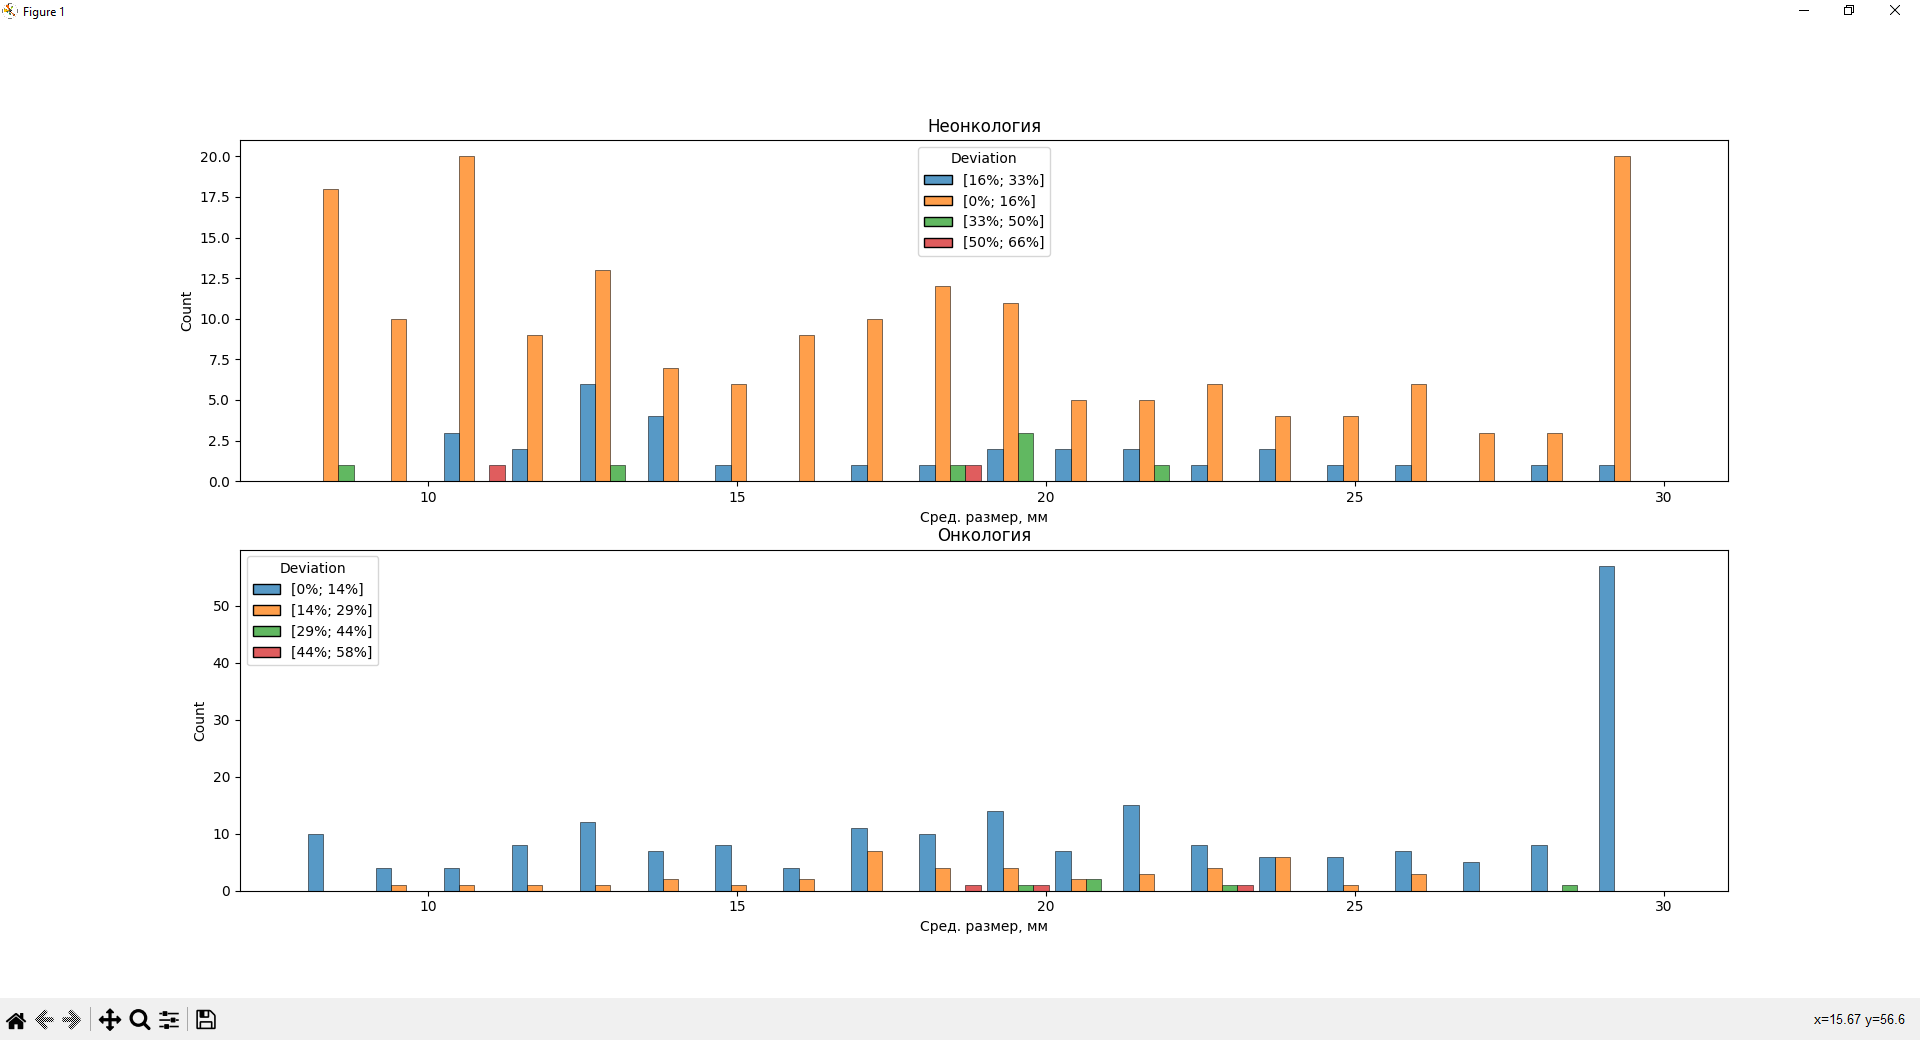
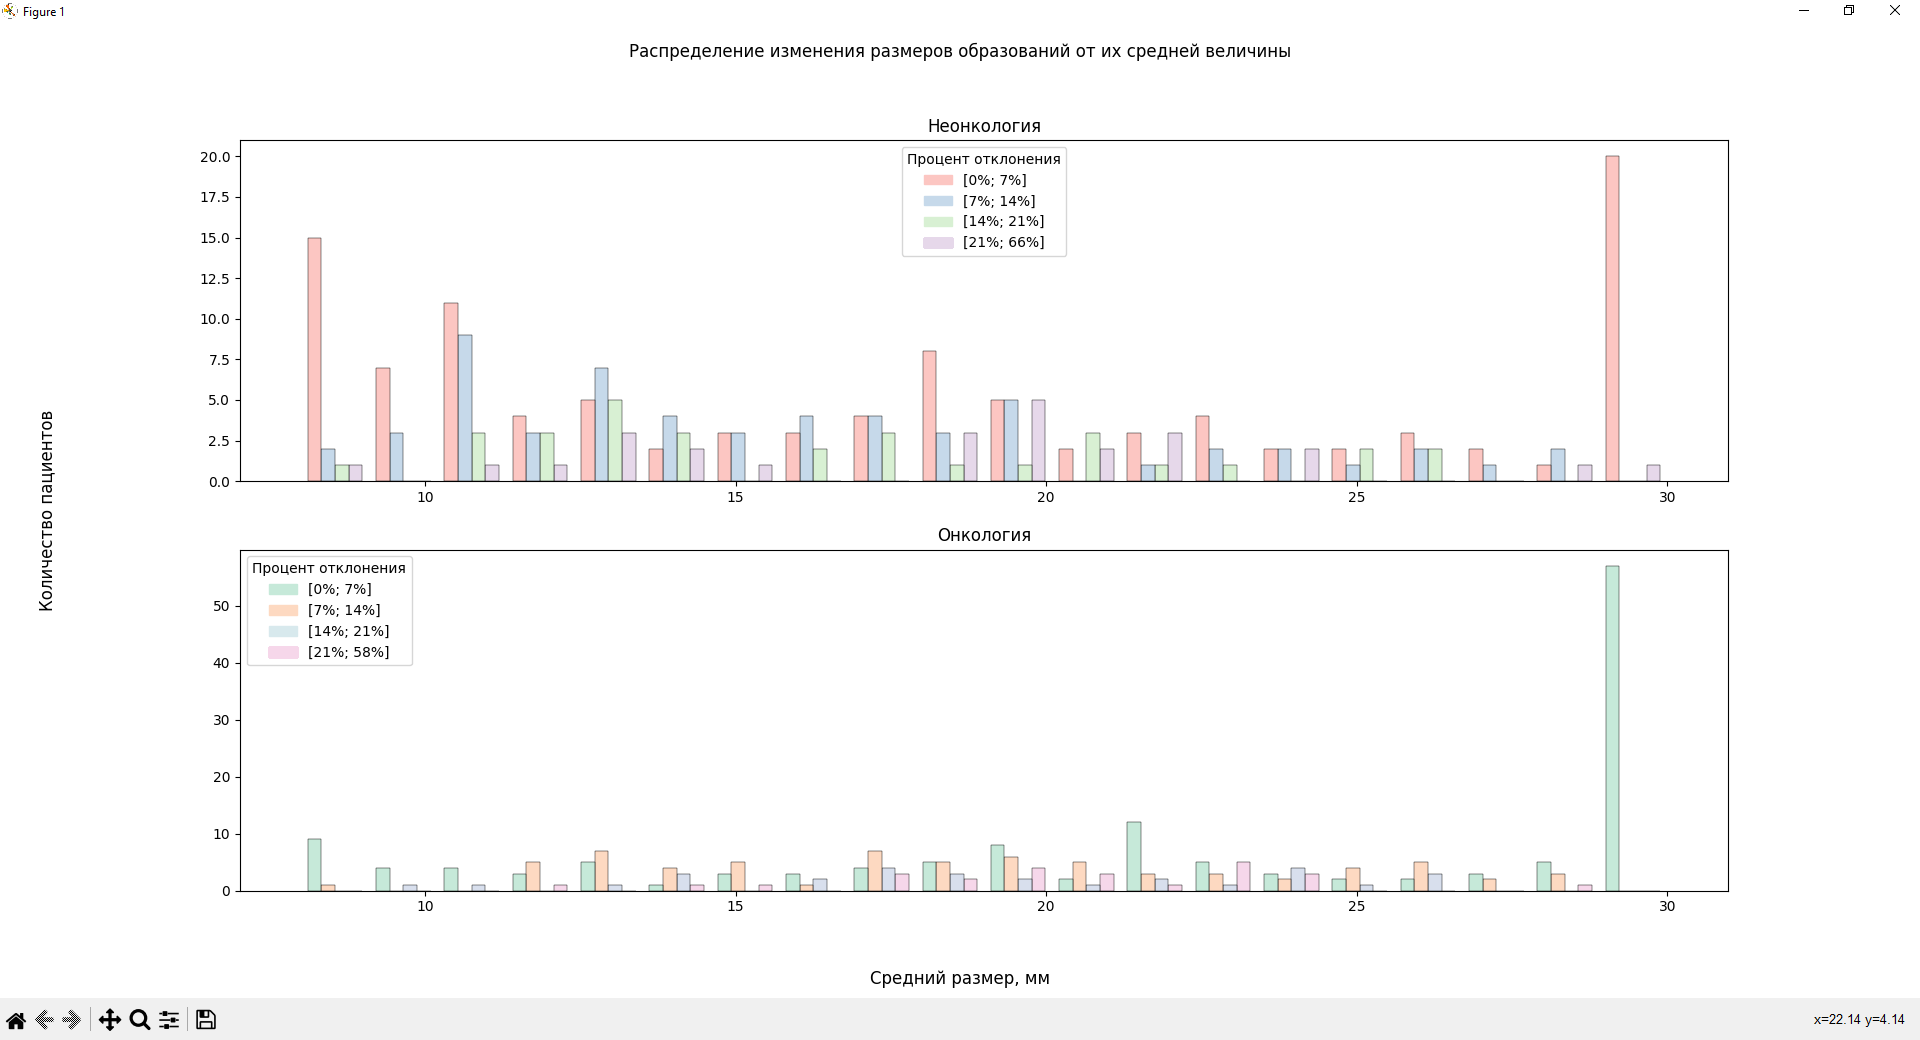
Add files via upload

diff --git a/Kapkywa/sizeDivOnk.py b/Kapkywa/sizeDivOnk.py
@@ -2,6 +2,7 @@ import pandas as pd
 import numpy as np
 import seaborn as sns
 import matplotlib.pyplot as plt
+import matplotlib.patches as mpatches
 
 onk = "Онк/Неонк"
 minSize = "Мин. размер, мм"
@@ -11,40 +12,61 @@ avgSize = "Сред. размер, мм"
 df = pd.read_excel("Data_exam.xlsx", header=1)
 pd.set_option('display.max_columns', None)
 
-def getGap(val, gaps):
-    for i in range(len(gaps) - 1):
-        if (val <= gaps[i + 1]):
-            return "[" + str(int(gaps[i] * 100.0)) + "%; " + str(int(gaps[i + 1] * 100.0)) + "%]"
+def getGap(val, gapsArg):
+    for i in range(len(gapsArg) - 1):
+            if val <= gapsArg[i + 1]:
+                return "[" + str(int(gapsArg[i] * 100.0)) + "%; " + str(int(gapsArg[i + 1] * 100.0)) + "%]"
 
+def getGap_index(gapsArg, index):
+    return "[" + str(int(gapsArg[index] * 100.0)) + "%; " + str(int(gapsArg[index + 1] * 100.0)) + "%]"
+
+    # удалим некорректную запись
 tmpDF = df[[onk, minSize, maxSize, avgSize]].drop(index=[219], axis=0)
 
 nonOnkDF = tmpDF[tmpDF[onk] == 0]
-nonOnkDF = nonOnkDF.assign(percDiv = (nonOnkDF[maxSize] - nonOnkDF[minSize]) / (nonOnkDF[avgSize] * 2.0))
+nonOnkDF = nonOnkDF.assign(percDiv=(nonOnkDF[maxSize] - nonOnkDF[minSize]) / (nonOnkDF[avgSize] * 2.0))
+nonOnkDF = nonOnkDF.sort_values(by="percDiv")
 minDiv = nonOnkDF.percDiv.min()
 maxDiv = nonOnkDF.percDiv.max()
 print(nonOnkDF[nonOnkDF.percDiv == maxDiv])
 print(minDiv, maxDiv)
-diff = (maxDiv - minDiv) / 4.0
-gaps = [minDiv, minDiv + diff, minDiv + diff * 2.0, minDiv + diff * 3.0, maxDiv]
-nonOnkDF = nonOnkDF.assign(Deviation = [getGap(nonOnkDF.iloc[i, 4], gaps) for i in range(len(nonOnkDF))])
+#diff = (maxDiv - minDiv) / 4
+gapsNonOnk = [minDiv, 0.07, 0.14, 0.21, maxDiv]
+nonOnkDF = nonOnkDF.assign(Deviation=[getGap(nonOnkDF.iloc[i, 4], gapsNonOnk) for i in range(len(nonOnkDF))])
 print(nonOnkDF)
 
-
 onkDF = tmpDF[tmpDF[onk] == 1]
-onkDF = onkDF.assign(percDiv = (onkDF[maxSize] - onkDF[minSize]) / (onkDF[avgSize] * 2.0))
+onkDF = onkDF.assign(percDiv=(onkDF[maxSize] - onkDF[minSize]) / (onkDF[avgSize] * 2.0))
+onkDF = onkDF.sort_values(by="percDiv")
 minDiv = onkDF.percDiv.min()
 maxDiv = onkDF.percDiv.max()
 print(onkDF[onkDF.percDiv == maxDiv])
 print(minDiv, maxDiv)
-diff = (maxDiv - minDiv) / 4.0
-gaps = [minDiv, minDiv + diff, minDiv + diff * 2.0, minDiv + diff * 3.0, maxDiv]
-onkDF = onkDF.assign(Deviation = [getGap(onkDF.iloc[i, 4], gaps) for i in range(len(onkDF))])
+#diff = (maxDiv - minDiv) / 4.0
+gapsOnk = [minDiv, 0.07, 0.14, 0.21, maxDiv]
+onkDF = onkDF.assign(Deviation=[getGap(onkDF.iloc[i, 4], gapsOnk) for i in range(len(onkDF))])
 print(onkDF)
 
 fig, axes = plt.subplots(2, 1)
 axes[0].set_title("Неонкология")
 axes[1].set_title("Онкология")
 
-sns.histplot(ax=axes[0], data=nonOnkDF, x=avgSize, hue="Deviation", bins=20, multiple="dodge", shrink=0.9)
-sns.histplot(ax=axes[1], data=onkDF, x=avgSize, hue="Deviation", bins=20, multiple="dodge", shrink=0.9)
+colors = [[252 / 255, 198 / 255, 194 / 255], [198 / 255, 217 / 255, 234 / 255], [216 / 255, 240 / 255, 211 / 255],
+          [1, 0, 0], [198 / 255, 233 / 255, 217 / 255], [253 / 255, 217 / 255, 193 / 255],
+          [216 / 255, 233 / 255, 237 / 255], [1, 0, 0]]
+
+g = sns.histplot(ax=axes[0], data=nonOnkDF, x=avgSize, hue="Deviation", bins=20, multiple="dodge", shrink=0.8, palette="Pastel1", edgecolor="black")
+patches = [mpatches.Patch(color=colors[i], label=getGap_index(gapsNonOnk, i)) for i in range(len(gapsNonOnk) - 1)]
+g.legend(handles=patches, title="Процент отклонения")
+g.set(xlabel=None, ylabel=None)
+
+g1 = sns.histplot(ax=axes[1], data=onkDF, x=avgSize, hue="Deviation", bins=20, multiple="dodge", shrink=0.8, palette="Pastel2", edgecolor="black")
+patches1 = [mpatches.Patch(color=colors[i + len(gapsNonOnk) - 1], label=getGap_index(gapsOnk, i)) for i in range(len(gapsOnk) - 1)]
+g1.legend(handles=patches1, title="Процент отклонения")
+g1.set(xlabel=None, ylabel=None)
+
+fig.supxlabel("Средний размер, мм")
+fig.supylabel("Количество пациентов")
+
+fig.suptitle("Распределение изменения размеров образований от их средней величины")
 plt.show()
